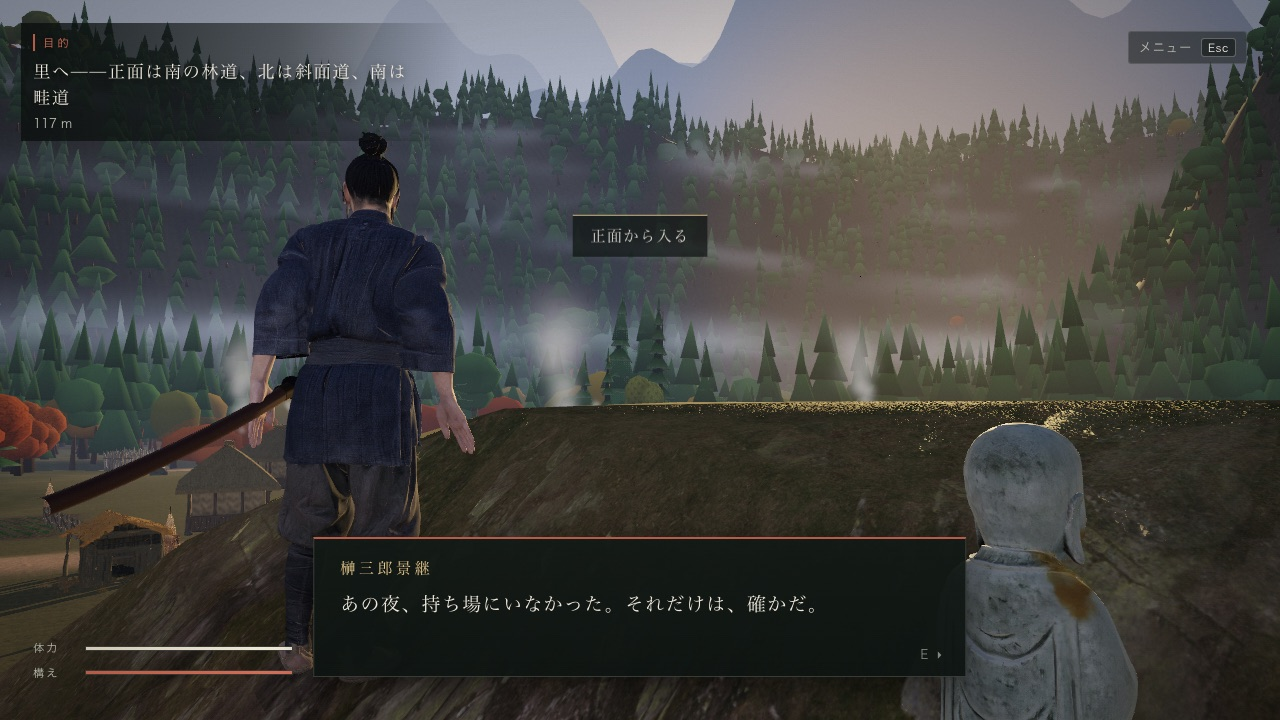
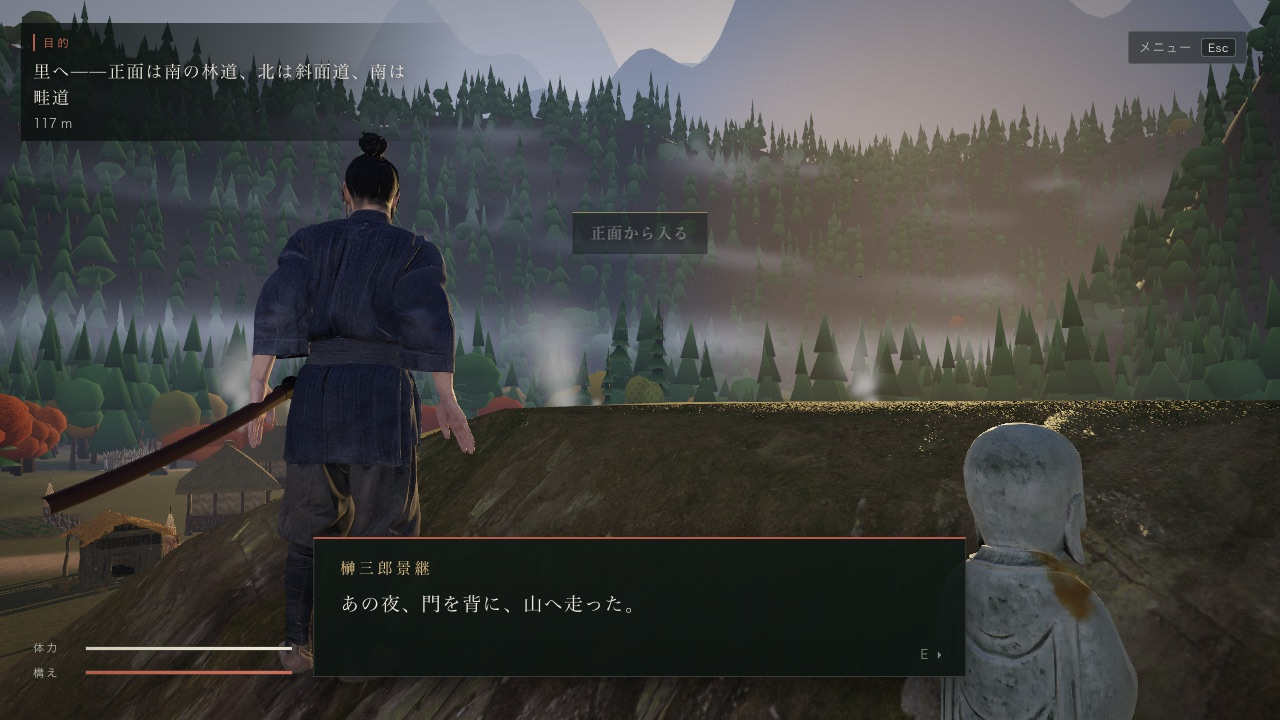
fix(story): act on the blind review (round 2)
- Kyusaku's welcome in the result follows the trust earned; the side
  route wording follows whether the village saw you, not only the rice
  left (a quiet but slow clear drops under 50), with a matching result
  line; 'seen' is kept in the save as an optional flag (version 1)
- F2 now reads as fleeing to the mountains and flips at the truth; the
  scout's note speaks of heavy requisition; the raid shout comes from
  unaware raiders, not at the moment of alert (bark code is back to main)
- the closing line hands the theme to the narration; escort order is
  burden, road, trust, then the apology and Hota after the ambush; the
  bow line is gone; the waking line may share the screen with a hint
- the HUD hides during the ending, hints step aside when a conversation
  opens, the truth shot holds both men over the fire, the early gaze is
  closer, and the badge visibly falls into the fire
- the check now requires exactly one line per variant group for every
  road, rice, trust and seen case; 25 of 25 mutants are caught

diff --git a/dist/valley/story-data.js b/dist/valley/story-data.js
@@ -31,12 +31,14 @@ export const STORY = {
       { speaker: hero, text: '西の口から入れば早い。だが戦が長引けば、倉が荒らされる。' },
       { speaker: hero, text: '北の斜面か南の畦を回れば背後に出られる。時はかかるが、見つかりにくい。' },
     ],
-    // 里の戦いのあと。久作の第一声は、選んだ道と残った食糧で変わる（§5.1。脇道で50未満は結果文の flankLoud と同じ境目）
+    // 里の戦いのあと。久作の第一声は、選んだ道と残った食糧で変わる（§5.1）。脇道は「見つかったか」でも分ける（静かでも時がかかれば50を割る）
     village_cleared: [
       { speaker: old, text: 'あんたの戦で、畑が踏まれた。……それでも、倉は残った。', group: 'kyusaku_first', when: { approach: 'front', food: [35, null] } },
-      { speaker: old, text: '畑も倉も、ひどく荒れたな。……皆、生きてはいる。', group: 'kyusaku_first', when: { approach: 'front', food: [null, 35] } },
-      { speaker: old, text: 'いつの間に片づけたのか。足音も聞こえなんだ。', group: 'kyusaku_first', when: { approach: 'flank', food: [50, null] } },
-      { speaker: old, text: '静かに、とはいかなんだか。倉が荒れた。', group: 'kyusaku_first', when: { approach: 'flank', food: [null, 50] } },
+      { speaker: old, text: '畑も倉も、ひどく荒れたな。……この冬は、厳しい。', group: 'kyusaku_first', when: { approach: 'front', food: [null, 35] } },
+      { speaker: old, text: 'いつの間に片づけたのか。足音も聞こえなんだ。', group: 'kyusaku_first', when: { approach: 'flank', seen: false, food: [50, null] } },
+      { speaker: old, text: '足音は聞こえなんだ。……だが、倉は荒らされた。', group: 'kyusaku_first', when: { approach: 'flank', seen: false, food: [null, 50] } },
+      { speaker: old, text: '騒ぎにはなったが、倉は残った。', group: 'kyusaku_first', when: { approach: 'flank', seen: true, food: [50, null] } },
+      { speaker: old, text: '静かに、とはいかなんだか。倉が荒れた。', group: 'kyusaku_first', when: { approach: 'flank', seen: true, food: [null, 50] } },
       { speaker: old, text: '逃げてきた武士は、あんたで三人目だ。皆、同じ顔をする。', fragment: 'F3' },
       { speaker: tsubaki, text: '倉の裏に、縛られた人がいます。あの兵たちに追われていた方です。' },
       { speaker: hero, text: '……そこにいるのか。' },
@@ -60,7 +62,9 @@ export const STORY = {
     result: [
       { speaker: tsubaki, text: '里の者から、米を預かってきました。' },
       { speaker: yajuro, text: 'あの兵たちも、腹を空かせていた。', clue: 'C4' },
-      { speaker: old, text: '武士など要らんと思うておったが……あんた方は、違ったな。' },
+      { speaker: old, text: '武士など要らんと思うておったが……あんた方は、違ったな。', group: 'kyusaku_result', when: { trust: 'high' } },
+      { speaker: old, text: '武士など要らんと思うておった。……今は、分からん。', group: 'kyusaku_result', when: { trust: 'mid' } },
+      { speaker: old, text: '助けられたのは、確かだ。……礼だけは、言うておく。', group: 'kyusaku_result', when: { trust: 'low' } },
       { speaker: tsubaki, text: '次に兵が来たら、私も手を貸します。' },
       { speaker: yajuro, text: '焚き火のそばは、久しぶりだ。' },
     ],
@@ -75,17 +79,17 @@ export const STORY = {
     ending_coda: [
       { speaker: hero, text: 'もう、いい。', when: { fragments: [5, null] }, fx: 'sode_burn' },   // 袖印を焚き火にくべる（案。音なし・炎が少し上がるだけ）
       { speaker: hero, text: '……', pause: 1.5, look: 'boy', when: { fragments: [5, null] } },
-      { speaker: hero, text: 'ここが、帰る場所になる。' },
+      { speaker: hero, text: '……飯にしよう。' },
       { speaker: yajuro, text: '橋の向こうに、追手の本隊がいるはずだ。' },
       { speaker: hero, text: '……明日、考える。' },
       { speaker: narrator, text: '燃え残った火は、谷で、人の灯になった。', narration: true },
     ],
     // 調べる（E）で出す一行。断片 F1・F2 と手がかり C1
     relic_sode: [{ speaker: hero, text: '……あの門を。', fragment: 'F1' }],
-    relic_far_look: [{ speaker: hero, text: 'あの夜、持ち場にいなかった。それだけは、確かだ。', fragment: 'F2' }],
-    clue_scout_note: [{ speaker: hero, text: '兵糧の書き付け。腹を空かせた兵か。', clue: 'C1' }],
+    relic_far_look: [{ speaker: hero, text: 'あの夜、門を背に、山へ走った。', fragment: 'F2' }],
+    clue_scout_note: [{ speaker: hero, text: '兵糧の書き付け。取り立てが、多すぎる。', clue: 'C1' }],
   },
-  // 敵の掛け声（字幕）。音に頼らず状況が分かるように、画面にも出す。raid は里の兵が気づいたときに alert と混ぜる（C2）
+  // 敵の掛け声（字幕）。音に頼らず状況が分かるように、画面にも出す。raid は、まだ気づいていない里の兵が荒らしながら上げる声（C2。game.js）
   barks: {
     alert: ['何奴だ！', '敵だ、かかれ！', 'こっちにいるぞ！'],
     raid: ['米を出せ。腹が減った。'],
@@ -126,8 +130,8 @@ export const STORY = {
   // 掛け合い・独り言（R21.1）。条件がそろい、戦闘・会話・案内・掛け声の表示がないときに字幕で一度だけ出す（banter.js）。
   // b0〜b5 は主人公ひとり（独り言と里の人）、b6 から弥十郎との掛け合い。group は同じ場面の言い換えで、どれか一つだけ出る。
   banter: [
-    { id: 'b0_alive', when: { beats: ['b0_temple'], minBeatT: 1 }, lines: [{ speaker: hero, text: '……生きている。まだ。' }] },
-    { id: 'b0_sword', when: { beats: ['b0_temple'], minBeatT: 1 }, lines: [{ speaker: hero, text: '刀は、まだ腰にある。' }] },
+    { id: 'b0_alive', overHint: true, when: { beats: ['b0_temple'], minBeatT: 1 }, lines: [{ speaker: hero, text: '……生きている。まだ。' }] },   // 目覚めた直後に（操作の案内と並んで出す）
+    { id: 'b0_sword', when: { beats: ['b0_temple'], minBeatT: 1 }, lines: [{ speaker: hero, text: '刀だけは、残ったか。' }] },
     { id: 'b2_soldiers', when: { beats: ['b2_road'], areas: ['upper_road'] }, lines: [{ speaker: hero, text: '穂太の言った兵は、この先か。' }] },
     { id: 'b2_scout_killed', group: 'b2_scout', when: { beats: ['b2_road', 'b3_viewpoint'], after: 'scout_killed' }, lines: [{ speaker: hero, text: '物見か。……本隊は、里だな。' }] },
     { id: 'b2_scout_stealth', group: 'b2_scout', when: { beats: ['b2_road', 'b3_viewpoint'], after: 'scout_stealth' }, lines: [{ speaker: hero, text: '……腕は、鈍っていない。' }] },
@@ -136,20 +140,19 @@ export const STORY = {
     { id: 'b3_plan_front', group: 'b3_plan', when: { beats: ['b3_viewpoint'], plan: 'front' }, lines: [{ speaker: hero, text: '正面から行く。早く終わらせる。' }] },
     { id: 'b3_plan_flank', group: 'b3_plan', when: { beats: ['b3_viewpoint'], plan: 'flank' }, lines: [{ speaker: hero, text: '回り込む。……気取られるな。' }] },
     { id: 'b4_unseen', when: { beats: ['b4_village'], approach: 'flank', seen: false, areas: ['village'], minBeatT: 4 }, lines: [{ speaker: hero, text: '……まだ、気づかれていない。' }] },
-    { id: 'b5_old_kept', group: 'b5_old', when: { beats: ['b5_archer'], areas: ['village'], food: [50, null], captiveFreed: false }, lines: [{ speaker: old, text: '蓄えは、まだある。……礼は、後でさせてくれ。' }] },
+    { id: 'b5_old_kept', group: 'b5_old', when: { beats: ['b5_archer'], areas: ['village'], food: [50, null], captiveFreed: false }, lines: [{ speaker: old, text: '蓄えは残った。……礼は、後でさせてくれ。' }] },
     { id: 'b5_old_half', group: 'b5_old', when: { beats: ['b5_archer'], areas: ['village'], food: [35, 50], captiveFreed: false }, lines: [{ speaker: old, text: '半分は残った。……冬は、なんとかする。' }] },
     { id: 'b5_old_lost', group: 'b5_old', when: { beats: ['b5_archer'], areas: ['village'], food: [null, 35], captiveFreed: false }, lines: [{ speaker: old, text: '米は減ったが、命は減らなんだ。' }] },
     { id: 'b5_rope', when: { beats: ['b5_archer'], areas: ['captive'], captiveFreed: false }, lines: [{ speaker: tsubaki, text: '縄が固くて、私の手では解けませんでした。' }] },
     { id: 'b6_burden', when: { beats: ['b6_escort'], companion: true, ambush: null }, lines: [{ speaker: yajuro, text: 'この脚では足手まといだ。置いていってもいい。' }, { speaker: hero, text: '置いていくなら、拾いに来た意味がない。' }] },
+    { id: 'b6_way_front', group: 'b6_way', when: { beats: ['b6_escort'], companion: true, ambush: null, approach: 'front' }, lines: [{ speaker: yajuro, text: '正面から斬り込んだとか。……無茶をなさる。' }, { speaker: hero, text: '時がなかった。' }] },
+    { id: 'b6_way_quiet', group: 'b6_way', when: { beats: ['b6_escort'], companion: true, ambush: null, approach: 'flank', seen: false }, lines: [{ speaker: yajuro, text: '里では、音もなく片づけられたとか。' }, { speaker: hero, text: '……昔の癖だ。' }] },
+    { id: 'b6_way_loud', group: 'b6_way', when: { beats: ['b6_escort'], companion: true, ambush: null, approach: 'flank', seen: true }, lines: [{ speaker: yajuro, text: '気取られたと聞いた。……ご無事で何より。' }, { speaker: hero, text: '……次は、うまくやる。' }] },
     { id: 'b6_trust_high', group: 'b6_trust', when: { beats: ['b6_escort'], companion: true, ambush: null, trust: 'high' }, lines: [{ speaker: yajuro, text: '里の者は、我らを見送ってくれたな。' }] },
-    { id: 'b6_trust_mid', group: 'b6_trust', when: { beats: ['b6_escort'], companion: true, ambush: null, trust: 'mid' }, lines: [{ speaker: yajuro, text: 'まだ、様子を見ているようだ。' }] },
+    { id: 'b6_trust_mid', group: 'b6_trust', when: { beats: ['b6_escort'], companion: true, ambush: null, trust: 'mid' }, lines: [{ speaker: yajuro, text: '里の者は、遠巻きに見ていたな。' }] },
     { id: 'b6_trust_low', group: 'b6_trust', when: { beats: ['b6_escort'], companion: true, ambush: null, trust: 'low' }, lines: [{ speaker: yajuro, text: '武士は要らぬ、か。' }, { speaker: hero, text: 'それでも、守る。' }] },
-    { id: 'b6_way_front', group: 'b6_way', when: { beats: ['b6_escort'], companion: true, ambush: null, approach: 'front' }, lines: [{ speaker: yajuro, text: '正面から斬り込んだそうだな。無茶をする。' }, { speaker: hero, text: '時がなかった。' }] },
-    { id: 'b6_way_quiet', group: 'b6_way', when: { beats: ['b6_escort'], companion: true, ambush: null, approach: 'flank', food: [50, null] }, lines: [{ speaker: yajuro, text: '里では、音もなく片づけたと聞いた。' }, { speaker: hero, text: '……昔の癖だ。' }] },
-    { id: 'b6_way_loud', group: 'b6_way', when: { beats: ['b6_escort'], companion: true, ambush: null, approach: 'flank', food: [null, 50] }, lines: [{ speaker: yajuro, text: '回り込んだが、気取られたそうだな。' }, { speaker: hero, text: '……次は、うまくやる。' }] },
-    { id: 'b6_boy', when: { beats: ['b6_escort'], companion: true, ambush: null }, lines: [{ speaker: yajuro, text: '寺に、子がいると聞いた。' }, { speaker: hero, text: '穂太だ。……待たせている。' }] },
-    { id: 'b6_bow', when: { beats: ['b6_escort'], companion: true, ambush: null }, lines: [{ speaker: yajuro, text: '指図をくだされ。弓は、まだ引ける。' }] },
     { id: 'b6_after', when: { beats: ['b6_escort'], companion: true, ambush: 'cleared' }, lines: [{ speaker: yajuro, text: '……すまぬ。余計なことを言った。' }] },
+    { id: 'b6_boy', when: { beats: ['b6_escort'], companion: true, ambush: 'cleared' }, lines: [{ speaker: yajuro, text: '寺に、子がいると聞いた。' }, { speaker: hero, text: '穂太だ。……待たせている。' }] },
   ],
   // 操作の案内（その場で一度だけ出す）
   hints: {
@@ -175,6 +178,6 @@ export const STORY = {
     plentiful: 'この食糧なら冬を越せる。', meager: '蓄えは半分ほど。冬は切り詰めて越す。', scarce: 'この蓄えでは、次は匿えない。',
     moraleHigh: '仲間の足取りは軽い。', moraleMid: '仲間と帰る灯がある。', moraleLow: '里の灯を絶やすな。',
     trustHigh: '里は門を開く。', trustMid: '里は、まだ様子を見ている。', trustLow: '信頼はこれからだ。',
-    front: '正面から里を守った。戦は早く終わった。', flank: '脇道から倉を守った。里は傷つかなかった。', flankLoud: '脇道から回ったが、気づかれて里は荒らされた。', none: '里への道を振り返る。',
+    front: '正面から里を守った。戦は早く終わった。', flank: '脇道から倉を守った。里は傷つかなかった。', flankLoud: '脇道から回ったが、気づかれて里は荒らされた。', flankSlow: '脇道から回ったが、時がかかり、倉は荒らされた。', none: '里への道を振り返る。',
   },
 };

diff --git a/dist/valley/game.js b/dist/valley/game.js
@@ -60,7 +60,7 @@ export class Game {
     this.resetStory();
   }
   // 物語の進み（掛け合い・出来事・読んだ手がかり・落とし物）。はじめから・つづきからで新しくし、やり直しでは残す（同じ台詞を繰り返さない）
-  resetStory() { this.banter = createBanterState(); this.storyEvents = []; this.cluesSeen = []; this.drops = {}; this.c3Shown = false; this.beatAt = this.time; this.gaze = null; this.flareT = 0; }
+  resetStory() { this.banter = createBanterState(); this.storyEvents = []; this.cluesSeen = []; this.drops = {}; this.c3Shown = false; this.beatAt = this.time; this.gaze = null; this.flareT = 0; this.burnBadge = null; this.raidBarks = 0; this.raidBarkAt = -99; }
 
   // ------------------------------------------------------------------ 時間・小道具
   after(sec, fn) { this.timers.push({ t: this.time + sec, fn }); }
@@ -175,7 +175,7 @@ export class Game {
     this.buildWorld(); this.begin();
     if (this.quest.beat === 'done') this.showResult();
     // クリア後の保存は結果の区切り(b7_result)。つづきからは焚き火の前で結果の会話を出し直す（出さないと何も起きない）
-    else if (this.quest.beat === 'b7_result') { this.ending = summarize(this.quest); this.queueDialogue('result'); }
+    else if (this.quest.beat === 'b7_result') { this.ending = summarize(this.quest); this.queueDialogue('result'); this.hud.showHUD(false); }   // 結末の間は HUD を隠す
     // 見晴らしの区切りからのつづきも、道を選ぶ場面を飛ばさない（やり直しと同じ）
     else if (this.quest.beat === 'b3_viewpoint') this.after(0.9, () => { if (this.flow === 'play' && this.quest.beat === 'b3_viewpoint') this.showChoice(); });
   }
@@ -383,6 +383,7 @@ export class Game {
     if (id.startsWith('ending_')) this.setCine(this.endingShot(id), 1);       // 結末の二つ目・三つ目の会話は、画角を切り替えて始める
     // 行は状況で選ぶ（久作の第一声・断片の数で深くなる結末）。narrative.js
     const lines = linesFor(STORY, id, this.quest); if (!lines?.length) return;
+    this.hud.hideHint();
     this.hud.startDialogue(id, lines, did => this.onDialogueEnd(did), line => this.onDialogueLine(line));
     this.audio.play('dialogue');
   }
@@ -393,7 +394,7 @@ export class Game {
       const boy = this.npcs.get('boy');
       if (boy) { this.gaze = { target: boy, prev: this.cine && this.cine.target === 1 ? this.cine.shot : null }; this.setCine(this.gazeShot(boy), this.gaze.prev ? 1 : 0); }
     }
-    if (line.fx === 'sode_burn') this.flareT = 1.8;
+    if (line.fx === 'sode_burn') this.burnBadge = { t0: this.time };     // 袖印が手から火へ落ち、落ちたところで炎が上がる（updateStory）
   }
   onDialogueEnd(id) {
     if (this.gaze) { this.gaze = null; this.clearCine(); }
@@ -436,12 +437,12 @@ export class Game {
       const s = Math.hypot(mx - uz * 2.4 - f.x, mz + ux * 2.4 - f.z) > Math.hypot(mx + uz * 2.4 - f.x, mz - ux * 2.4 - f.z) ? 1 : -1;
       return { pos: [mx - s * uz * 2.6, 1.2, mz + s * ux * 2.6], look: [mx, 1.3, mz], fov: 44 };   // 子の顔と主人公の顔が、どちらも会話の枠より上に入る高さ
     }
-    return { pos: [h.x - ux * 1.7 + uz * 0.55, 1.62, h.z - uz * 1.7 - ux * 0.55], look: [b.x, 0.85, b.z], fov: 36 };
+    return { pos: [h.x - ux * 1.35 + uz * 0.5, 1.6, h.z - uz * 1.35 - ux * 0.5], look: [b.x, 1.0, b.z], fov: 30 };
   }
   // 結末の画角（焚き火の向こうから二人を／火越しに主人公を）
   endingShot(id) {
     const f = WORLD.props.find(p => p.id === 'bonfire');
-    return id === 'ending_truth' ? { pos: [f.x - 0.2, 1.35, f.z + 2.5], look: [f.x - 0.5, 0.9, f.z - 1.8], fov: 44 }
+    return id === 'ending_truth' ? { pos: [f.x - 0.4, 0.65, f.z + 2.2], look: [f.x - 0.2, 0.9, f.z - 1.69], fov: 46 }
       : { pos: [f.x - 0.75, 0.6, f.z + 1.9], look: [f.x + 0.3, 0.85, f.z - 0.8], fov: 46 };   // 結び：低く火越しに。炎が画の中ほど（会話の枠の上）に来て、くべた袖印の炎も見える
   }
   // 体力と構えを戻す（里を守ったあと・待ち伏せを退けたあと。戦いの合間に息をつける）
@@ -497,7 +498,7 @@ export class Game {
       this.npcs.get('v_tsubaki')?.place(tsu.x, tsu.z, tsu.yaw); this.npcs.get('v_tsubaki')?.setCower(false);
       for (const id of ['v_old', 'v_tsubaki']) this.npcs.get(id)?.lookAt(this.hero.pos);
       if (this.ally) { const a = at(-2.1, -0.9); this.ally.place(a.x, a.z, a.yaw); this.ally.role = 'captive'; this.ally.character.weapons.yumi.holder.visible = true; this.ally.character.play('Sit_Cross_Legged_on_Floor', { fade: 0.2 }); }
-      this.hud.setParty(false);
+      this.hud.setParty(false); this.hud.showHUD(false);             // 結末の間は、体力・構え・目的の欄を隠す（会話の枠は HUD の外）
       this.lock = null; this.hero.lockTarget = null;
       this.rig.yaw = yawOf(f.x - h.x, f.z - h.z); this.rig.snap();
       this.hud.clearTransient();
@@ -783,7 +784,7 @@ export class Game {
     if(!g.ahead || this.guideTime-(g.aheadAt ?? -Infinity)>=.1) { g.ahead=sampleGuidePath(this.guidePath(),2,15).at(-1); g.aheadAt=this.guideTime; }
     this.guideRenderer.update({pos,direction,target:baseline.points.at(-1),ahead:g.ahead,remaining:g.assessment.remaining,
       level:this.settings.waymarks,mode,emphasized:helping,reached:g.reached,reduced:this.reducedMotion(),hidden:document.body.classList.contains('hide-hud'),t:this.guideTime,wind:this.wind,camera:this.camera});
-    if(mode==='free' && ['b0_temple','b1_boy','b2_road'].includes(objectiveId) && !this.hud.hintBusy() && !this.banterWaiting) this.hud.hint('guide-g','迷ったら G で、導きの風を呼べます');
+    if(mode==='free' && ['b0_temple','b1_boy','b2_road'].includes(objectiveId) && !this.hud.hintBusy() && !this.banterWaiting && !this.pendingDialogue) this.hud.hint('guide-g','迷ったら G で、導きの風を呼べます');
   }
   guidePath() {
     const g=this.guide, pos=this.hero.pos;
@@ -868,7 +869,18 @@ export class Game {
     this.banter = r.state; this.banterWaiting = r.waiting;
     if ((talking || fighting) && kind === 'banter') this.hud.hideSubtitle('banter');   // 戦闘・会話が始まったら、掛け合いの字幕を残さない
     if (r.show) this.hud.subtitle({ 榊三郎景継: '景継', 梓弥十郎: '弥十郎' }[r.show.speaker] || r.show.speaker, r.show.text, r.show.seconds * 1000, 'banter');
+    // C2：まだ気づいていない里の兵が、荒らしながら上げる声（近づいたときだけ。14秒おき、3回まで。乱数は使わない）
+    if (q.beat === 'b4_village' && !kind && !talking && (this.raidBarks || 0) < 3 && this.time - (this.raidBarkAt ?? -99) > 14) {
+      const e = this.enemies.find(e => e.group === 'village_enemies' && e.kind !== 'officer' && e.fighter.alive && !e.dormant && !e.departed && ['patrol', 'suspicious'].includes(e.brain.state) && dist2(e.pos, this.hero.pos) < 22);
+      if (e) { this.raidBarkAt = this.time; this.raidBarks = (this.raidBarks || 0) + 1; this.hud.subtitle('追手', STORY.barks.raid[0], 1800); }
+    }
     const items = [];
+    const b = this.burnBadge, f = WORLD.props.find(p => p.id === 'bonfire');
+    if (b) {
+      const k = Math.min(1, (this.time - b.t0) / 0.7), h = this.hero.pos, sx = h.x - Math.sin(this.hero.yaw) * 0.45, sz = h.z - Math.cos(this.hero.yaw) * 0.45;
+      if (k >= 1) { this.burnBadge = null; this.flareT = 1.6; }
+      else items.push({ id: 'sode_burn', kind: 'sode', x: sx + (f.x - sx) * k, z: sz + (f.z - sz) * k, y: 1.0 + (0.3 - 1.0) * k + 0.35 * Math.sin(Math.PI * k), yaw: k * 3 });
+    }
     for (const rel of STORY.relics) {
       const at = rel.drop ? this.drops[rel.id] : rel.at;
       const reading = this.hud.dialogue?.id === rel.dialogue || this.pendingDialogue?.id === rel.dialogue;   // 調べている間は、まだ地面にある（寄った画に写す）

diff --git a/dist/valley/quest.js b/dist/valley/quest.js
@@ -101,18 +101,19 @@ export function reduce(state, event) {
   return { state: s, effects };
 }
 // 結果の文の境目は、実際に遊んで出る幅に合わせてある（正面で食糧33〜45・信頼44〜47、静かな脇道で食糧50前後・信頼55前後）。
-// 脇道でも食糧が50を割った（見つかって荒らされた）ときは、1行目も「里は傷つかなかった」と言わない。
+// 脇道でも食糧が50を割ったときは、1行目も「里は傷つかなかった」と言わない。見つからずに時がかかって割ったときは「気づかれて」とも言わない（flankSlow）。
 export function summarize(s) {
   const { food, morale } = s.resources, approach = s.flags.approach, r = s.story.results;
   return { saved: s.flags.archerJoined ? 4 : 3, food, morale, trust: s.trust, approach,
-    lines: [approach === 'flank' && food < 50 ? r.flankLoud : r[approach || 'none'], r[food >= 50 ? 'plentiful' : food >= 35 ? 'meager' : 'scarce'],
+    lines: [approach === 'flank' && food < 50 ? (s.seen || !r.flankSlow ? r.flankLoud : r.flankSlow) : r[approach || 'none'], r[food >= 50 ? 'plentiful' : food >= 35 ? 'meager' : 'scarce'],
       morale >= 72 ? r.moraleHigh : morale >= 60 ? r.moraleMid : r.moraleLow, s.trust >= 58 ? r.trustHigh : s.trust >= 48 ? r.trustMid : r.trustLow] };
 }
 export function exportProgress(state) {
   // 戦闘中の保存は、消費された資源を含め直前の区切りへ戻す。
   const s = state.checkpointState ? { ...state, ...copy(state.checkpointState) } : createQuest(state.story);
   const saved = initialSave();
-  Object.assign(saved, { checkpoint: state.checkpoint, beat: s.beat, flags: copy(s.flags), resources: copy(s.resources), trust: s.trust });
+  // seen（里で見つかったか）も残す。結果の文と久作の言葉が、つづきからでも遊んだとおりになる（任意の項目。旧い保存は見つかっていない扱い）
+  Object.assign(saved, { checkpoint: state.checkpoint, beat: s.beat, flags: { ...copy(s.flags), seen: !!s.seen }, resources: copy(s.resources), trust: s.trust });
   saved.party.archer.joined = s.flags.archerJoined;
   saved.world.enemies = Object.fromEntries(Object.keys(s.down).map(id => [id, { alive: false }]));
   return saved;
@@ -121,7 +122,8 @@ export function restoreProgress(story = STORY, saved) {
   let clean;
   try { clean = sanitize(saved); } catch { return createQuest(story); }
   const s = createQuest(story);
-  Object.assign(s, { beat: clean.beat, checkpoint: clean.checkpoint, flags: copy(clean.flags), resources: copy(clean.resources), trust: clean.trust });
+  Object.assign(s, { beat: clean.beat, checkpoint: clean.checkpoint, flags: copy(clean.flags), resources: copy(clean.resources), trust: clean.trust, seen: clean.flags.seen });
+  delete s.flags.seen;
   s.down = Object.fromEntries(Object.entries(clean.world.enemies).filter(([, e]) => !e.alive).map(([id]) => [id, 'killed']));
   s.captiveFreed = s.flags.archerJoined;
   if (s.checkpoint) s.checkpointState = snapshot(s);

diff --git a/dist/valley/banter.js b/dist/valley/banter.js
@@ -35,7 +35,7 @@ export function areasAt(areas, pos) {
 // 一行を読む時間（秒）。短い行でも2.4秒、長くても4.6秒
 export const lineSeconds = text => Math.max(2.4, Math.min(4.6, 1.4 + 0.11 * [...String(text)].length));
 
-export function createBanterState() { return { shown: [], groups: [], playing: null, lastEnd: -1e9, calmSince: null }; }
+export function createBanterState() { return { shown: [], groups: [], playing: null, lastEnd: -1e9, calmSince: null, quietSince: null }; }
 
 // 1コマ分進める。返す show は、いま字幕に出す一行（無ければ null）。list は STORY.banter。
 // waiting は「掛け合いの最中か、出せる台詞が静まるのを待っている」。そのあいだ、急がない案内（G の案内）は譲る（掛け合い＞ヒント）
@@ -45,7 +45,7 @@ export function stepBanter(state, sit, list) {
   if (sit.blocked) {
     // 割り込まれたら、掛け合いの残りの行は捨てる（掛け声や会話の上に、続きを重ねない）
     if (s.playing) { s.playing = null; s.lastEnd = sit.t; }
-    s.calmSince = null;
+    s.calmSince = null; s.quietSince = null;
     return none;
   }
   if (s.playing) {
@@ -59,13 +59,14 @@ export function stepBanter(state, sit, list) {
     s.lastEnd = s.playing.until; s.playing = null;
     return none;
   }
-  // held（案内の表示中）：新しい掛け合いは始めないが、始まった掛け合いは最後まで出す（掛け合い＞ヒント）
-  if (sit.held) { s.calmSince = null; return none; }
+  // held（案内の表示中）：新しい掛け合いは始めないが、始まった掛け合いは最後まで出す（掛け合い＞ヒント）。
+  // overHint の台詞（目覚めた直後の一言）だけは、案内と並んで出す（案内は上、字幕は下で重ならない）
   if (s.calmSince === null) s.calmSince = sit.t;
+  if (sit.held) s.quietSince = null; else if (s.quietSince === null) s.quietSince = sit.t;
   if (sit.t - s.lastEnd < BANTER_GAP) return none;
-  const entry = list.find(e => !s.shown.includes(e.id) && !(e.group && s.groups.includes(e.group)) && matches(e.when, sit));
+  const entry = list.find(e => !s.shown.includes(e.id) && !(e.group && s.groups.includes(e.group)) && (e.overHint || !sit.held) && matches(e.when, sit));
   if (!entry) return none;
-  if (sit.t - s.calmSince < BANTER_CALM) return { ...none, waiting: true };
+  if (sit.t - s.calmSince < BANTER_CALM || (!entry.overHint && sit.t - s.quietSince < BANTER_CALM)) return { ...none, waiting: true };
   s.shown.push(entry.id); if (entry.group) s.groups.push(entry.group);
   const line = entry.lines[0], seconds = lineSeconds(line.text);
   s.playing = { id: entry.id, line: 0, until: sit.t + seconds };

diff --git a/dist/valley/relic-view.js b/dist/valley/relic-view.js
@@ -53,19 +53,20 @@ export class RelicView {
     mesh.rotation.x = -Math.PI / 2 + 0.06; mesh.rotation.z = it.yaw || 0; mesh.position.y = 0.025; mesh.receiveShadow = true;
     const glint = new THREE.Sprite(new THREE.SpriteMaterial({ map: this.glintMap, color: 0xffe0a6, transparent: true, depthWrite: false, blending: THREE.AdditiveBlending, opacity: 0 }));
     glint.scale.setScalar(0.34); glint.position.y = 0.16;
-    root.add(mesh, glint); root.position.set(it.x, this.terrain.heightAt(it.x, it.z), it.z);
+    root.add(mesh, glint);
     this.group.add(root);
-    return { root, glint };
+    return { root, glint, mesh };
   }
-  // list：いま地面にある物 [{ id, kind: 'sode'|'note', x, z, yaw }]。無くなった物は片づける
+  // list：いま見えている物 [{ id, kind: 'sode'|'note', x, z, yaw, y }]（y は地面からの高さ。袖印が火へ落ちる間だけ使う）。無くなった物は片づける
   update(list, t, camera, reduced) {
     const seen = new Set();
     for (const it of list) {
       seen.add(it.id);
       let v = this.items.get(it.id);
-      if (!v || v.x !== it.x || v.z !== it.z) { if (v) this.drop(it.id); v = { ...this.make(it), x: it.x, z: it.z }; this.items.set(it.id, v); }
+      if (!v) { v = this.make(it); this.items.set(it.id, v); }
+      v.root.position.set(it.x, this.terrain.heightAt(it.x, it.z) + (it.y || 0), it.z); v.mesh.rotation.z = it.yaw || 0;
       const d = camera.position.distanceTo(v.root.position);
-      v.glint.material.opacity = d > 22 ? 0 : (reduced ? 0.32 : 0.22 + 0.2 * (0.5 + 0.5 * Math.sin(t * Math.PI))) * Math.min(1, (22 - d) / 6);
+      v.glint.material.opacity = d > 22 || it.y ? 0 : (reduced ? 0.32 : 0.22 + 0.2 * (0.5 + 0.5 * Math.sin(t * Math.PI))) * Math.min(1, (22 - d) / 6);
     }
     for (const id of [...this.items.keys()]) if (!seen.has(id)) this.drop(id);
   }

diff --git a/dist/valley/save.js b/dist/valley/save.js
@@ -7,7 +7,7 @@ const modes = ['follow', 'hold', 'cover', 'retreat'];
 const fragmentOrder = STORY.fragments.map(f => f.id);
 export function initialSave() {
   return { schema: 'kamakura-valley-progress', version: 1, savedAt: 0, checkpoint: null, beat: 'b0_temple',
-    flags: { plan: null, approach: null, archerJoined: false, ambush: null, fragments: [] },
+    flags: { plan: null, approach: null, archerJoined: false, ambush: null, fragments: [], seen: false },
     resources: { food: 60, material: 0, funds: 0, morale: 50 }, trust: 40,
     party: { archer: { joined: false, hp: 100, mode: 'follow' } }, player: { hp: 100, posture: 100 },
     world: { enemies: {} } };
@@ -32,7 +32,8 @@ export function sanitize(raw) {
   result.beat = choice(raw.beat, beats);
   const flags = object(raw.flags);
   result.flags = { plan: choice(flags.plan, [null, 'front', 'flank']), approach: choice(flags.approach, [null, 'front', 'flank']),
-    archerJoined: bool(flags.archerJoined), ambush: choice(flags.ambush, [null, 'active', 'cleared']), fragments: fragments(flags.fragments) };
+    archerJoined: bool(flags.archerJoined), ambush: choice(flags.ambush, [null, 'active', 'cleared']), fragments: fragments(flags.fragments),
+    seen: flags.seen === undefined ? false : bool(flags.seen) };                // 里で見つかったか（任意。版は上げない）
   const resources = object(raw.resources);
   for (const k of Object.keys(result.resources)) result.resources[k] = number(resources[k]);
   result.trust = number(raw.trust);

diff --git a/dist/valley/battle.js b/dist/valley/battle.js
@@ -127,8 +127,7 @@ export class Battle {
   onEnemySurrendered(e) { this.bark(e, 'surrender'); this.g.reportDown(e, 'surrendered'); }
 
   bark(actor, key) {
-    // 里の兵が気づいたときは、徴発の掛け声も混ぜる（C2）。選ぶ乱数は1回のまま（戦闘の乱数の並びを変えない）
-    const g = this.g, lines = key === 'alert' && actor.group === 'village_enemies' ? [...STORY.barks.alert, ...STORY.barks.raid] : STORY.barks[key];
+    const g = this.g, lines = STORY.barks[key];
     if (!lines || g.time - this.barkAt < 1.6 || dist2(actor.pos, g.hero.pos) > 40) return;
     this.barkAt = g.time;
     g.hud.subtitle(actor.kind === 'officer' ? '侍大将' : '追手', lines[(g.rng() * lines.length) | 0], 1800);

diff --git a/dist/valley/hud.js b/dist/valley/hud.js
@@ -36,6 +36,8 @@ export class HUD {
 
   // いま案内が見えているか（次の案内で上書きしないために使う）
   hintBusy() { return !this.el.hint.classList.contains('hidden'); }
+  // 会話が始まったら、出ている案内を下げる（静かな間や調べた物に、操作の案内を重ねない）
+  hideHint() { this.timers.delete('hint'); this.el.hint.classList.add('hidden'); }
   // 案内は鍵ごとに一度だけ出す。出したときだけ true
   hint(key, text, ms = 5200) {
     if (this.hintsShown.has(key)) return false;

diff --git a/.kiro/specs/hidden-valley-slice/design-story-impl.md b/.kiro/specs/hidden-valley-slice/design-story-impl.md
@@ -7,28 +7,31 @@ design-narrative.md §3〜§7 を実装した記録。2026-10-31〜11-01、枝 `
 
 - **台詞はすべて story-data.js（data層）**。行に `when`（場面・場所・出来事・道・信頼・食糧・断片の数）、`pause`（無言の間）、`look`（見つめる相手）、`fragment`／`clue`（その行が出す断片・手がかり）、`narration`（語り）を持たせた。掛け合いも会話の行も、同じ条件の読み方（banter.js の `matches`）で選ぶ。
 - **断片は「会話が出た時点」で拾ったことにする**（quest.js）。会話は一度キューに入ると、やり直し（状態ごと区切りへ戻る）以外では必ず表示されるので、表示の瞬間に数えるのと同じ。こうすると、断片の記録が Node だけで試験できる。捨てた案：HUD が行を出すたびに知らせて数える（ブラウザがないと試験できない）。
-- **保存**：`flags.fragments`（物語の順の並び）。版は1のまま、無ければ空として読む。壊れた並び（配列でない・未知のid・重なり）は、ほかの項目と同じく保存ごと退ける。
+- **保存**：`flags.fragments`（物語の順の並び）と `flags.seen`（里で見つかったか）。どちらも版は1のまま、無ければ空・見つかっていないとして読む。壊れた値は、ほかの項目と同じく保存ごと退ける。`seen` は任務の状態では `flags` の外に置いたまま（既存の規則と試験に合わせた）。
 - **結末は三つの会話**（result → ending_truth → ending_coda）。1回あたり約5行（R24.2）に収め、間で画角を切り替える。真相の3行は断片0でも出る。断片3以上で弥十郎とのやり取り2行、5で「もう、いい。」と袖印をくべる演出（炎が1.8秒高く上がる。音なし）と穂太を見る1.5秒。
 - **字幕の優先（掛け声＞掛け合い＞ヒント）の解釈**：戦闘・会話・掛け声や侍大将の一言の表示中・字幕OFF・演出カメラ・暗転のときは、掛け合いを出さず、始まっていた掛け合いも切る（戦闘か会話が始まったら字幕も消す）。案内（ヒント）の表示中は新しい掛け合いを始めないが、始まった掛け合いは最後まで出す。急がない「G で導きの風」の案内は、掛け合いが出番を待つあいだ譲る。場面の変わり目の操作案内（屈む・弥十郎への指示）は遅らせない（操作を先に知らせる）。
 - **侍大将の一言（C3）**は、里の戦いで侍大将が初めて戦いの状態に入ったコマで出す。「気づいた」出来事は使わない（正面から入ると、敵は出来事なしで戦いの状態になる）。字幕なので、字幕OFFでは出ない。
-- **掛け声（C2）**：里の兵が気づいたときの候補に「米を出せ。腹が減った。」を混ぜ、投降に「すまぬ……帰る所がない。」を足した。乱数は1回引くまま（戦闘の乱数の並びを変えない）。
+- **掛け声（C2）**：「米を出せ。腹が減った。」は、まだ気づいていない里の兵が荒らしながら上げる声にした（近づくと出る。14秒おき3回まで。乱数は使わない）。気づいた瞬間の声に混ぜる案は捨てた（斬りかかる相手に米を求める形になる）。投降に「すまぬ……帰る所がない。」を足した。
 - **袖印は焚き火の石の縁**に置いた。庭は背の高い薄（実測：密度約1.1、高さ約1.1m）に覆われ、目覚めた場所の地面に置いた布は撮影で見えなかった。火のまわりだけ草がない。見つけた火に、5つ拾った結末でくべる対になる。
 - **見つめる間**は、体ごと相手へ向け（毎秒4ラジアンまで）、画角を寄せるだけ。首の骨は動かさない（動作が書き直さない骨に後から手を入れると残る。メモリの罠の記録）。子が2m以上離れていれば肩越し、すぐ隣なら焚き火と反対の側から二人を横に撮る（肩越しは主人公の背で子が隠れた）。
 - **焚き火の輪**：信頼が高い（58以上）と里の人3人が内側（0.78倍）に座り、中は外縁（1.0倍）に立ち、低い（48未満）と1.8倍離れて立つ。久作とつばきは話者なので動かさない。穂太は主人公の右隣に立つ（座らせると、見つめる間の画で子の顔が会話の枠に隠れた）。
 - **結末の画角**：真相は火の北から二人を（火の北東2.6mの大きな茂みを外す）。結びは低く火越しに主人公を撮り、炎を会話の枠より上に置く（くべた袖印の炎と最後の語りが、火の上に重なる）。
 - **里の荒れ（§5.2。見た目だけ）**：帰り道（b5〜b6）に、蓄えが50未満なら荷車のあたりから細い煙、35未満なら太い煙。柵の倒れ・散った荷は作っていない。
 
+- **第2周の評価（盲検・Opus）で直したこと**：結果の久作の一言を信頼で3通りに（歓迎が結果画面の信頼と食い違った）。脇道は「見つかったか」で言い分ける（静かでも時がかかれば蓄えは50を割る。実測：5人が荒らすと毎秒0.2）。結果文にも「見つからずに時がかかった」場合の行（flankSlow）を足した。F2 を「あの夜、門を背に、山へ走った。」に（逃げたように読め、結末の「山へ逃がした」で意味が返る）。C1 を「取り立てが、多すぎる」に。結びの「ここが、帰る場所になる。」を「……飯にしよう。」に（主題は語りに任せる）。道中は「重荷→道→信頼」、待ち伏せのあと「詫び→穂太」の順にし、弓の一言は削った。目覚めの一言だけは操作の案内と並んで出す（overHint）。結末の間は体力・構え・目的を隠し、会話が始まると案内を下げる。袖印は手から火へ落ちる絵を足した。
+- **評価の指摘で、直さず残したもの**：結末の段の境目（設計は3以上。評価は「F3〜F5 は必ず拾うので4以上に」）。侍大将の一言の字（「命」「蔵」。依頼の文のまま）。既存の台詞の読み（「待て、降る」「西の口」と目的の「南の林道」）、弥十郎の傷（腕と脚。既存の台詞と足を引く歩き方のまま）。
+
 ## 2. 実測
 
-- 掛け合い24本（行30、2行の掛け合い6本、言い換えの組5つ）。会話11（行46。新しいのは ending_truth・ending_coda・relic_sode・relic_far_look・clue_scout_note）。条件つきの行8、無言の間3。最長は会話35字・掛け合い22字・掛け声12字・侍大将の一言22字。
-- 単体試験：全574件合格（物語は14件。うち1件は、検査がわざと壊したデータの16種の誤りをすべて報告することを確かめる）。変異試験 `node tools/verify-story-mutations.mjs`：21件すべて検出。
+- 掛け合い23本（言い換えの組5つ）。会話11（新しいのは ending_truth・ending_coda・relic_sode・relic_far_look・clue_scout_note）。条件つきの行13、無言の間3。一画面40字・掛け声14字を全行で守る（検査が見る）。
+- 単体試験：全576件合格（物語は16件。うち1件は、検査がわざと壊したデータの17種の誤りをすべて報告することを確かめる）。変異試験 `node tools/verify-story-mutations.mjs`：25件すべて検出。
 - 検査：`tools/lib/story-check.mjs` を `tools/check-valley.mjs` から呼ぶ（id の重複・40字（掛け声14字）・未知の話者・条件の書き間違い・一度も満たされない条件・久作の第一声が各場合に一つ・断片idの欠け・呼ばれない会話・画面に出さない語）。
 - 実ブラウザ `tools/scenarios/regress-story.mjs --strict`：合格。戦闘の論理 `regress-attack-timing`：変更前と320コマ一致。既存の回帰（つづきから・里を守った瞬間の会話・やり直しの漏れ・矢で倒れる）：合格。
 - 保存の互換：断片の項目がない旧い保存は空として読め、つづきからの結末は真相3行だけになる（試験と実ブラウザで確認）。
 
 ## 3. 画像（reports/polish3/story/、1280×720、標準品質、種1333。PNG を JPEG 82 に変換）
 
-01 焚き火の縁で「E 袖印を調べる」／02 袖印に寄った画と「……あの門を。」／03 穂太を見る無言の間／04 見晴らし岩で遠くを見る／05 侍大将の一言（字幕）／06 久作の第一声（正面・蓄えあり）／07 道中の掛け合い（字幕）／08 結末の真相（二人を焚き火越しに）／09 袖印をくべて炎が上がる／10 穂太を見る間（結末）／11 最後の語り／12 荒らされた里の煙（蓄え20）。字幕・会話の枠が人物や見せたい物に重ならないことを目で確かめた。
+01 焚き火の縁で「E 袖印を調べる」／02 袖印に寄った画と「……あの門を。」／03 穂太を見る無言の間／04 見晴らし岩で遠くを見る／05 侍大将の一言（字幕）／06 久作の第一声（正面・蓄えあり）／07 道中の掛け合い（字幕）／08 結末の真相（二人を焚き火越しに）／09a 袖印が手から火へ落ちる／09 炎が上がる／10 穂太を見る間（結末）／11 最後の語り／12 荒らされた里の煙（蓄え20）。字幕・会話の枠が人物や見せたい物に重ならないことを目で確かめた。
 
 ## 4. 既知の限界・残り
 
